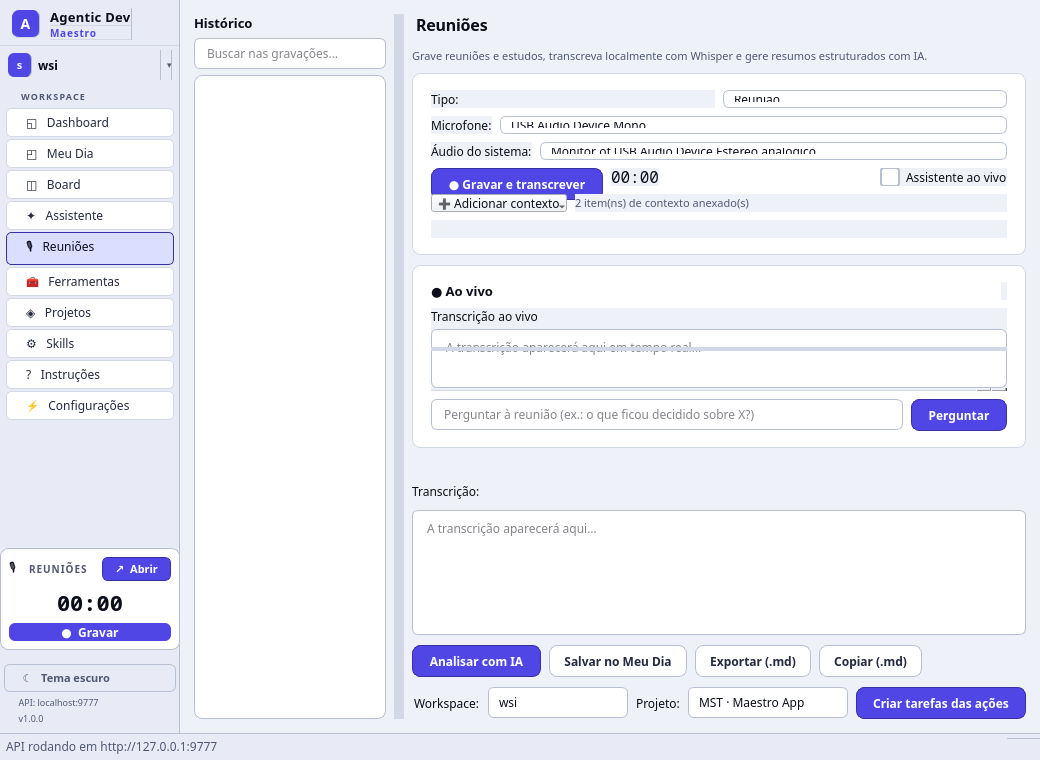
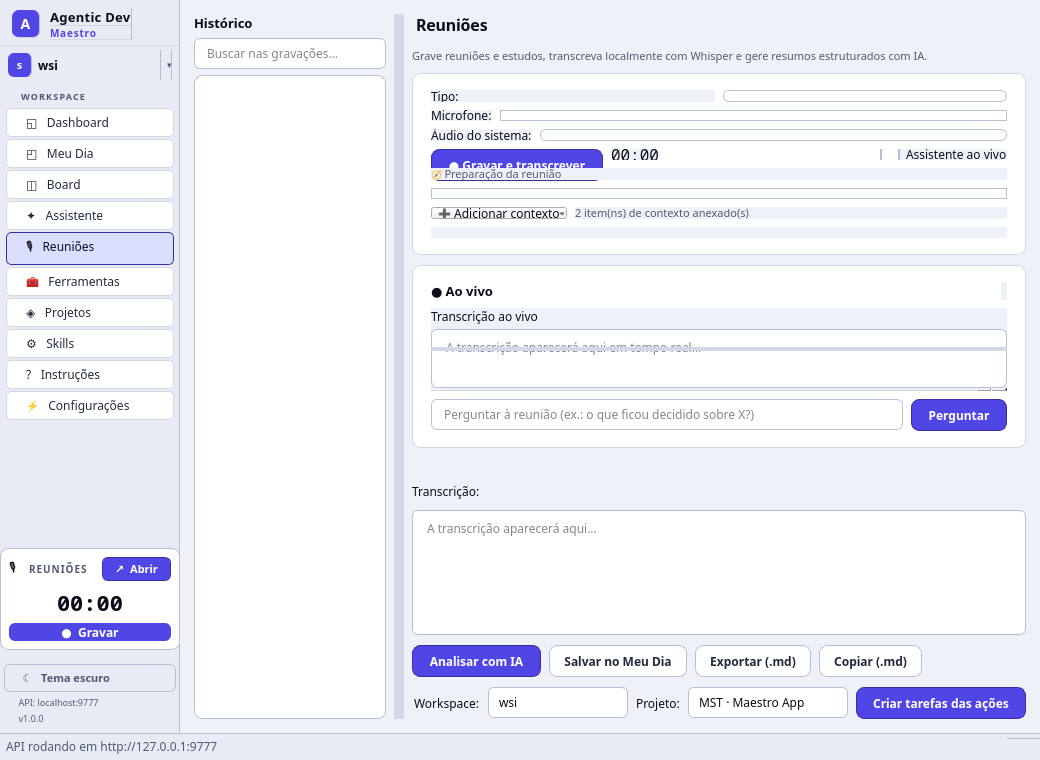
feat(reuniões): modo de preparação (pauta + contexto prévio)
- Nova seção 'Preparação da reunião' na tela de reuniões: campo de texto
  para pauta/objetivos/participantes/notas prévias, disponível ANTES de
  começar a gravar.
- A preparação entra no topo do _meeting_context(), então o copiloto ao
  vivo já inicia sabendo do que se trata; combina com o contexto anexado
  (arquivos/imagens/tela).
- Contexto ao vivo recalculado a cada extração — capta edições de
  preparação/anexos feitas durante a reunião.
- Preparação incluída no markdown exportado/copiado (novo parâmetro prep
  em live_meeting_to_markdown).
- README (EN/PT) e print de Reuniões atualizados.

Changed region(s): [[0.4, 0.1211, 0.9846, 0.3026], [0.8308, 0.2421, 0.8615, 0.2724]]

diff --git a/local-client/maestro_local/gui/views/transcricoes_view.py b/local-client/maestro_local/gui/views/transcricoes_view.py
@@ -295,6 +295,22 @@ class TranscricoesView(QWidget):
         row4.addWidget(self.live_check)
         cl.addLayout(row4)
 
+        # ---- Preparação: informações prévias + contexto para o copiloto ----
+        prep_header = QLabel(t("🧭 Preparação da reunião"))
+        prep_header.setObjectName("subtitle")
+        prep_header.setToolTip(
+            t("Prepare a reunião antes de começar: descreva a pauta e anexe contexto. "
+              "O assistente já inicia sabendo do que se trata.")
+        )
+        cl.addWidget(prep_header)
+        self.prep_edit = QTextEdit()
+        self.prep_edit.setPlaceholderText(
+            t("Pauta, objetivos, participantes, decisões esperadas, links… "
+              "O assistente usa isto como base para já começar preparado.")
+        )
+        self.prep_edit.setMaximumHeight(84)
+        cl.addWidget(self.prep_edit)
+
         # ---- Contexto adicional (arquivos/imagens/tela) para o copiloto ----
         row5 = QHBoxLayout()
         row5.setSpacing(8)
@@ -828,8 +844,11 @@ class TranscricoesView(QWidget):
         new_text = self._live_pending
         self._live_pending = ""
         self._live_secs_since = 0
+        # Recalcula o contexto a cada extração para captar edições de preparação
+        # ou novos anexos feitos durante a reunião.
+        self._live_context = self._meeting_context()
         self._live_extractor = LiveExtractWorker(
-            dict(self._live_state), new_text, context=getattr(self, "_live_context", ""),
+            dict(self._live_state), new_text, context=self._live_context,
         )
         self._live_extractor.done.connect(self._on_live_extracted)
         self._live_extractor.failed.connect(self._on_live_extract_error)
@@ -1064,6 +1083,9 @@ class TranscricoesView(QWidget):
         e dicas ao trabalho atual.
         """
         parts = []
+        prep = self.prep_edit.toPlainText().strip()
+        if prep:
+            parts.append(t("## Preparação / informações prévias") + "\n" + prep[:3000])
         try:
             from maestro_local.config import get_active_workspace_id, list_workspaces
             wid = get_active_workspace_id()
@@ -1359,6 +1381,7 @@ class TranscricoesView(QWidget):
             duration=self._current.get("duration") or float(self._elapsed),
             topic=topic, state=self._live_state,
             transcript=transcript, summary_md=summary_md,
+            prep=self.prep_edit.toPlainText().strip(),
         )
 
     def _export_markdown(self):

diff --git a/local-client/maestro_local/transcricoes/markdown_gen.py b/local-client/maestro_local/transcricoes/markdown_gen.py
@@ -49,11 +49,11 @@ def meeting_to_markdown(summary: MeetingSummary, date_str: str) -> str:
 
 def live_meeting_to_markdown(
     *, title: str, kind: str, date_str: str, duration: float, topic: str,
-    state: dict, transcript: str = "", summary_md: str = "",
+    state: dict, transcript: str = "", summary_md: str = "", prep: str = "",
 ) -> str:
     """Documento único e estruturado da reunião: junta todos os itens de todas as
     abas do assistente ao vivo (plano, dicas, ações, decisões, perguntas) +
-    (opcional) resumo da IA + transcrição."""
+    (opcional) preparação/informações prévias + resumo da IA + transcrição."""
     is_study = kind == "study"
     default_title = (topic if is_study and topic else ("Estudo" if is_study else "Reunião"))
     out = [f"# {title or default_title}", ""]
@@ -64,6 +64,11 @@ def live_meeting_to_markdown(
     if topic:
         out.append(f"**Tópico:** {topic}  ")
     out.append("")
+
+    if prep and prep.strip():
+        out.append("## 🧭 Preparação")
+        out.append(prep.strip())
+        out.append("")
 
     plan = state.get("plan") or []
     if plan:

diff --git a/local-client/scripts/gen_screenshots.py b/local-client/scripts/gen_screenshots.py
@@ -156,6 +156,11 @@ def main():
     # Reuniões — mostra o painel ao vivo (copiloto) populado
     go("transcricoes")
     tv = win.transcricoes_view
+    tv.prep_edit.setPlainText(
+        "Pauta: revisar o módulo de exportação de relatórios.\n"
+        "Objetivo: decidir o limite de linhas e o versionamento.\n"
+        "Participantes: Ana (backend), Bruno (produto)."
+    )
     tv.live_box.setVisible(True)
     tv._live_state = {
         "action_items": [{"description": "Ajustar validação do CSV", "assignee": "Ana"}],

diff --git a/local-client/maestro_local/i18n_catalog.py b/local-client/maestro_local/i18n_catalog.py
@@ -498,6 +498,10 @@ CATALOG = {
   "Remover contexto": "Remove context",
   "{n} item(ns) de contexto anexado(s)": "{n} attached context item(s)",
   "## Contexto anexado à reunião": "## Context attached to the meeting",
+  "🧭 Preparação da reunião": "🧭 Meeting preparation",
+  "Prepare a reunião antes de começar: descreva a pauta e anexe contexto. O assistente já inicia sabendo do que se trata.": "Prepare the meeting before it starts: describe the agenda and attach context. The assistant starts already knowing what it's about.",
+  "Pauta, objetivos, participantes, decisões esperadas, links… O assistente usa isto como base para já começar preparado.": "Agenda, goals, attendees, expected decisions, links… The assistant uses this as a basis to start already prepared.",
+  "## Preparação / informações prévias": "## Preparation / prior information",
   "parec indisponível — não é possível gravar.": "parec unavailable — recording is not possible.",
   "Selecione ao menos uma fonte de áudio.": "Select at least one audio source.",
   "Erro ao iniciar gravação: {error}": "Error starting recording: {error}",

diff --git a/README.md b/README.md
@@ -87,7 +87,7 @@ Board with drag-and-drop, columns customizable per project, filters by type/prio
 Internal AI assistant that runs with your own provider (local LM Studio, opencode, or any OpenAI-compatible API). It reads the board, suggests priorities, requests task reviews, creates TODOs, and comments on tasks — all within the application. Built with LangGraph and internal tools. Configurable under Settings → AI Providers.
 
 ### Transcriptions
-Records meetings and study sessions (microphone and/or system audio via PipeWire/PulseAudio), transcribes locally with faster-whisper, and generates structured summaries with AI: meetings become key points/decisions/action items; study sessions become concepts/exercises/related topics. Searchable history, global Ctrl+Shift+R shortcut, and a button to save the summary to My Day. Features migrated from the wsi-cronista project.
+Records meetings and study sessions (microphone and/or system audio via PipeWire/PulseAudio), transcribes locally with faster-whisper, and generates structured summaries with AI: meetings become key points/decisions/action items; study sessions become concepts/exercises/related topics. A **preparation mode** lets you brief the meeting before it starts — write the agenda/goals and attach context (files, PDFs, images, or a screenshot; images/screens are read by a vision model) so the live copilot begins already aware of what the meeting is about. You can also switch the target workspace/project from the meeting screen. Searchable history, global Ctrl+Shift+R shortcut, and a button to save the summary to My Day. Features migrated from the wsi-cronista project.
 
 ### Projects
 Create and manage projects with a unique key (e.g., DEMO). Each project has its own board columns, tasks, labels, and metrics.

diff --git a/README.ptbr.md b/README.ptbr.md
@@ -87,7 +87,7 @@ Board com drag-and-drop, colunas customizáveis por projeto, filtros por tipo/pr
 Assistente de IA interno que roda com seu próprio provedor (LM Studio local, opencode ou qualquer API compatível com OpenAI). Ele lê o board, sugere prioridades, solicita revisões de tarefas, cria TODOs e comenta tarefas — tudo dentro da aplicação. Construído com LangGraph e ferramentas internas. Configurável em Configurações → Provedores de IA.
 
 ### Transcrições
-Grava reuniões e sessões de estudo (microfone e/ou áudio do sistema via PipeWire/PulseAudio), transcreve localmente com faster-whisper e gera resumos estruturados com IA: reuniões viram pontos-chave/decisões/ações; estudos viram conceitos/exercícios/tópicos relacionados. Histórico pesquisável, atalho global Ctrl+Shift+R e botão para salvar o resumo no Meu Dia. Funcionalidades migradas do projeto wsi-cronista.
+Grava reuniões e sessões de estudo (microfone e/ou áudio do sistema via PipeWire/PulseAudio), transcreve localmente com faster-whisper e gera resumos estruturados com IA: reuniões viram pontos-chave/decisões/ações; estudos viram conceitos/exercícios/tópicos relacionados. Um **modo de preparação** permite preparar a reunião antes de começar — escreva a pauta/objetivos e anexe contexto (arquivos, PDFs, imagens ou uma captura de tela; imagens/telas são lidas por um modelo com visão) para que o copiloto ao vivo já inicie sabendo do que se trata. Também é possível trocar o workspace/projeto de destino pela própria tela da reunião. Histórico pesquisável, atalho global Ctrl+Shift+R e botão para salvar o resumo no Meu Dia. Funcionalidades migradas do projeto wsi-cronista.
 
 ### Projetos
 Criar e gerenciar projetos com chave única (ex: DEMO). Cada projeto tem suas colunas de board, tarefas, labels e métricas próprias.